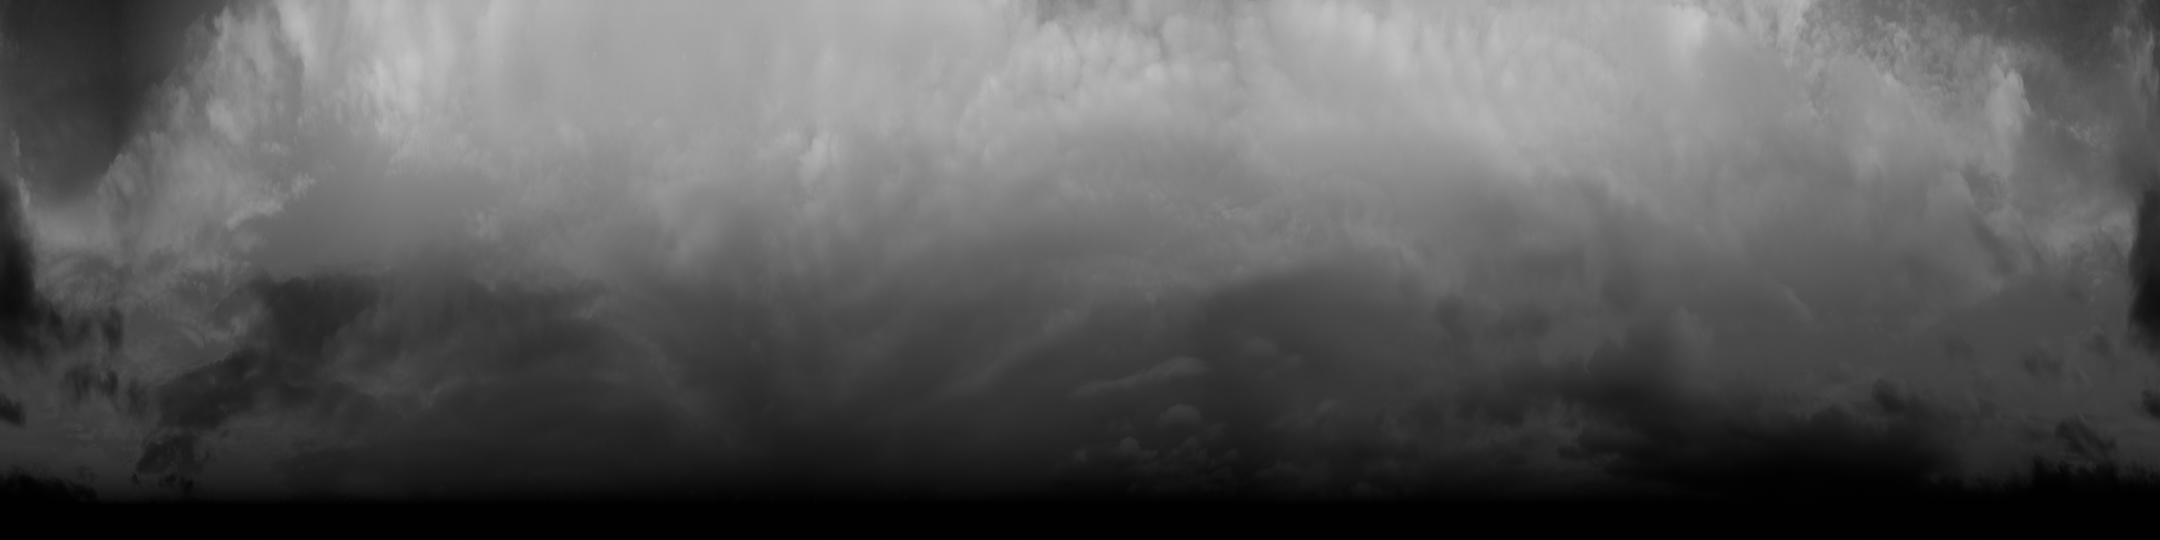
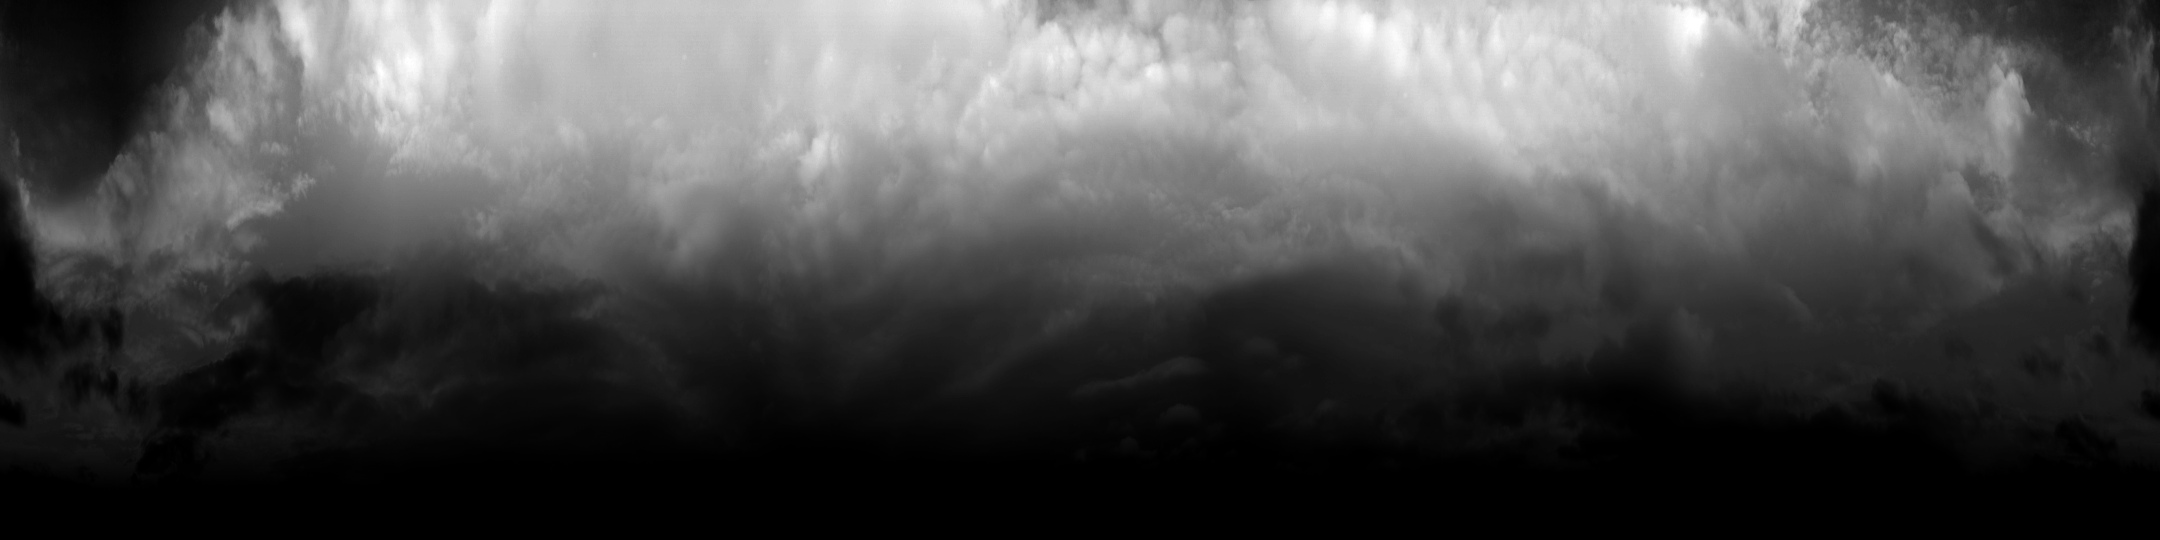
0.062

diff --git a/window.js b/window.js
@@ -113,15 +113,15 @@ choosingChibi = false;
 // landscape
 const newtree = new Image();
 newtree.src = 'newtree.png';
-let ph = newtree.height;
 const acacia = new Image();
 acacia.src = 'acacia.png';
 const clouds = new Image();
-clouds.onload = function() {
+clouds.src = 'clouds.png';
+const clouds2 = new Image();
+clouds2.onload = function() {
   console.log('Images buffered succesfully');
 };
-clouds.src = 'clouds.png';
-
+clouds2.src = 'clouds2.png';
 
 // for my guys
 const smile = new Image();
@@ -185,9 +185,6 @@ outputArray = [];
 
 
 // UI and messaging
-basicInfo = new TextElement(fontSize+'px', trueWhite, 10, canvasHeight - 10);
-newestMessage = new TextElement(fontSize+'px', trueWhite, 10, canvasHeight - 30);
-topLabel = new TextElement(fontSize+'px', trueWhite, canvasWidth - 115, 20);
 let messagesToSave = canvasHeight/20;
 
 /**
@@ -269,17 +266,25 @@ let myGameArea = {
 function updateGameArea() {
   myGameArea.clear();
   ctx = myGameArea.context;
-  c = document.getElementById("myCanvas");
+  //c = document.getElementById('myCanvas');
   myGameArea.frameNo += 1;
   touchOnorOffThisFrame = false;
   if (myGameArea.frameNo == 1 || everyinterval(3)) {
     // fire a comet
-    if (fps >= 30 && Math.random() < 0.005) {
+    if (fps >= 30 && Math.random() < 0.005 && (daytimeCounter <= 250 || daytimeCounter >= 750)) {
       ranX = Math.floor(Math.random()*(canvasWidth));
-      ranY = Math.floor(Math.random()*(trueBottom/2));
+      if (Math.random() < 0.5) {
+        ranY = 0;
+      } else {
+        ranY = canvasWidth;
+      }
       comets.push(new Inert(2, 2, trueWhite, ranX, ranY));
-      comets[comets.length-1].speedX = (Math.random()*2)-1;
-      comets[comets.length-1].speedY = -(Math.random()+0.1);
+      if (ranY == 0) {
+        comets[comets.length-1].speedX = Math.random();
+      } else {
+        comets[comets.length-1].speedX = -Math.random();
+      }
+      comets[comets.length-1].speedY = - Math.random() + 0.1;
     }
     // change the colour by time of day
     for (let tick = 0; tick < nightcolour.length; tick++) {
@@ -389,20 +394,24 @@ function updateGameArea() {
   // background
   // draw the clouds - disappear at nighttime
   ctx.globalAlpha = 0.3;
-    if (daytimeCounter <= 250) {
-      ctx.globalAlpha = 0.3 - (0.2*((250 - daytimeCounter)/250));
-    } else if (daytimeCounter > 750) {
-      ctx.globalAlpha = 0.3 - (0.2*((daytimeCounter-750)/250));
-    }
+  if (daytimeCounter <= 250) {
+    ctx.globalAlpha = 0.3 - (0.2*((250 - daytimeCounter)/250));
+  } else if (daytimeCounter > 750) {
+    ctx.globalAlpha = 0.3 - (0.2*((daytimeCounter-750)/250));
+  }
   if (ctx.globalAlpha < 0) {
     ctx.globalAlpha = 0;
   }
-
   let offsetX = (canvasHeight/540*2160)/10000*(daytimeCounter);
-  ctx.drawImage(clouds, 0 - offsetX, 0, (canvasHeight/540*2160), canvasHeight);
+  ctx.drawImage(clouds, 0 - offsetX/10, 0, (canvasHeight/540*2160), canvasHeight);
   if (offsetX > 2160) {
-    ctx.drawImage(clouds, (canvasHeight/540*2160) - offsetX, 0, (canvasHeight/540*2160), canvasHeight);
+    ctx.drawImage(clouds, (canvasHeight/540*2160) - (offsetX/10), 0, (canvasHeight/540*2160), canvasHeight);
   }
+  ctx.drawImage(clouds2, - offsetX, 0, (canvasHeight/540*2160), canvasHeight);
+  if (offsetX > 2160) {
+    ctx.drawImage(clouds2, (canvasHeight/540*2160) - offsetX, 0, (canvasHeight/540*2160), canvasHeight);
+  }
+
   ctx.globalAlpha = 1;
 
   // draw the tree
@@ -480,16 +489,16 @@ function updateGameArea() {
   // draw the message history
   if (pointerPos.y > canvasHeight - muckLevel - 5) {
     let fade = ctx.createLinearGradient(0, 0, 0, trueBottom);
-    let rMessage = Math.round((255+(hexToRgb(outputArray[2]).r))/2);
-    let gMessage = Math.round((255+(hexToRgb(outputArray[2]).g))/2);
-    let bMessage = Math.round((255+(hexToRgb(outputArray[2]).b))/2);
+    let rMessage = Math.round(hexToRgb(outputArray[2]).r);
+    let gMessage = Math.round(hexToRgb(outputArray[2]).g);
+    let bMessage = Math.round(hexToRgb(outputArray[2]).b);
     fade.addColorStop(0, 'rgba('+rMessage+', '+gMessage+', '+bMessage+', 0.05)');
     fade.addColorStop(1, 'rgba('+rMessage+', '+gMessage+', '+bMessage+', 0.3)');
     // Fill with gradient
     ctx.fillStyle = fade;
     ctx.font = fontSize+'px' + ' ' + globalFont;
     for (let i = messageBuffer.length-2; i >= 0; i--) {
-      ctx.fillText(messageBuffer[i].timeStamp+' '+messageBuffer[i].text, 10, 35+trueBottom-(20*(messageBuffer.length-i)));
+      ctx.fillText(messageBuffer[i].timeStamp +' '+ messageBuffer[i].text, 10, 30 + trueBottom - (20*(messageBuffer.length-i)));
     }
   }
   // update the text
@@ -731,11 +740,13 @@ function updateGameArea() {
     ctx.fillRect(0, 0, canvasWidth, canvasHeight);
     ctx.globalAlpha = 1;
   }
-
+  basicInfo = new TextElement(fontSize+'px', outputArray[2], 10, canvasHeight - 5);
   basicInfo.text = tickerToTime(daytimeCounter) +' Day '+day+' Chibis '+(femaleCount+maleCount+nonbinaryCount) + ' /'+femaleCount+'F '+maleCount+'M '+nonbinaryCount+'N '; // +(chibis.length + trees.length + fruits.length + fireflies.length + seeds.length + glyphs.length);
   basicInfo.update();
-  topLabel.text = 'v0.061 FPS '+fps;
+  topLabel = new TextElement(fontSize+'px', outputArray[2], canvasWidth - 115, 20);
+  topLabel.text = 'v0.062 FPS '+fps;
   topLabel.update();
+  newestMessage = new TextElement(fontSize+'px', outputArray[2], 10, canvasHeight - 25);
   if (!paused) {
     newestMessage.text = currentMessage.timeStamp +' ' + currentMessage.text;
   } else {
@@ -775,7 +786,12 @@ function updateGameArea() {
   for (let i = 0; i < buttons.length; i++) {
     buttons[i].update();
   }
-
+  for (let i = 0; i < buttons.length; i++) {
+    // tool tip - draw on top of buttons and labels
+    if (buttons[i].visible && pointerPos.x < buttons[i].x + (buttons[i].width/2) && pointerPos.x > buttons[i].x - (buttons[i].width/2) && pointerPos.y < buttons[i].y + buttons[i].height && pointerPos.y > buttons[i].y) {
+      buttons[i].drawToolTip();
+    }
+  }
 }
 
 /**
@@ -1350,6 +1366,10 @@ function Seed(colour, owner) {
           if (chibis[i].speedY < 0) {
             chibis[i].health -= 0.1;
           }
+          // get more tired between midnight and 3am
+          if (chibis[i].awake && daytimeCounter <= 250) {
+            chibis[i].energy -= 0.03125;
+          }
           // if asleep, gain energy and a little health
           if (!chibis[i].awake) {
             chibis[i].energy += 0.125;
@@ -1568,11 +1588,11 @@ function Seed(colour, owner) {
             glowalpha = (1 - (1/(canvasHeight)*this.y)) * ((daytimeCounter-750)/250);
           }
         }
-          if (glowalpha > 0 && glowalpha < 1) {
-            ctx.globalAlpha = glowalpha/2;
-          } else {
-            ctx.globalAlpha = 0;
-          }
+        if (glowalpha > 0 && glowalpha < 1) {
+          ctx.globalAlpha = glowalpha/2;
+        } else {
+          ctx.globalAlpha = 0;
+        }
 
         // draw the thing
         ctx.fillStyle = this.colour;

diff --git a/cattery.js b/cattery.js
@@ -1538,17 +1538,30 @@ function Chibi(x, y, bodySize, maxSize, gender) {
     ctx.lineWidth = 2*this.cellShadeThickness;
     ctx.beginPath();
     if (this.sitting && this.awake) {
-      // make it wag
+      // make the butt wag
       ctx.beginPath();
       ctx.arc(-tmp+1.875, -this.size, this.thickness*this.size*1.8, 0, 2 * Math.PI);
       ctx.stroke();
       ctx.fill();
+      // chest piece
+      ctx.beginPath();
+      ctx.arc(-backendShiftX/4, -this.size - this.backendShiftY/4, this.thickness*this.size*1.8, 0, 2 * Math.PI);
+      ctx.stroke();
+      ctx.fill();
+
+
       if (this.pattern !== 0 && this.pattern !== 4 && this.pattern !== 5) {
         ctx.fillStyle = pat;
         ctx.globalAlpha = this.patternAlpha;
+        // butt
         ctx.beginPath();
         ctx.arc(-tmp+1.875, -this.size, this.thickness*this.size*1.8, 0, 2 * Math.PI);
         ctx.fill();
+        // chest
+        ctx.beginPath();
+        ctx.arc(-backendShiftX/4, -this.size - this.backendShiftY/4, this.thickness*this.size*1.8, 0, 2 * Math.PI);
+        ctx.fill();
+
         if (this.pattern == 3) {
           let fadeGrad = ctx.createLinearGradient(0, -this.thickness*this.size*1.8/2, 0, this.thickness*this.size*1.8);
           fadeGrad.addColorStop(0.4, 'rgba(0, 0, 0, 0)');
@@ -1564,22 +1577,32 @@ function Chibi(x, y, bodySize, maxSize, gender) {
           bGradient.addColorStop(0, this.thirdColour);
           bGradient.addColorStop(1, 'rgba(0, 0, 0, 0)');
           ctx.fillStyle = bGradient;
+          ctx.arc(-backendShiftX/4, -this.size - this.backendShiftY/4, this.thickness*this.size*1.8, 0, 2 * Math.PI);
           ctx.arc(-tmp+1.875, -this.size, this.thickness*this.size*1.8, 0, 2 * Math.PI);
           ctx.fill();
         }
       }
     } else if (this.awake) {
+      // butt
       ctx.beginPath();
       ctx.arc(-(this.size/32) - backendShiftX, - backendShiftY, this.thickness*this.size*1.8, 0, 2 * Math.PI);
       ctx.stroke();
       ctx.fill();
+      // chest piece
+      ctx.beginPath();
+      ctx.arc(-(this.size/32) - backendShiftX/4, - backendShiftY/4, this.thickness*this.size*1.8, 0, 2 * Math.PI);
+      ctx.stroke();
+      ctx.fill();
+
       if (this.pattern !== 0 && this.pattern !== 4 && this.pattern !== 5) {
         ctx.fillStyle = pat;
         ctx.globalAlpha = this.patternAlpha;
         ctx.beginPath();
+        ctx.arc(-(this.size/32) - backendShiftX/4, - backendShiftY/4, this.thickness*this.size*1.8, 0, 2 * Math.PI);
         ctx.arc(-(this.size/32) - backendShiftX, - backendShiftY, this.thickness*this.size*1.8, 0, 2 * Math.PI);
         ctx.fill();
         ctx.globalAlpha = 1;
+
         if (this.pattern == 3) {
           let fadeGrad = ctx.createLinearGradient(0, -this.thickness*this.size*1.8/2, 0, this.thickness*this.size*1.8);
           fadeGrad.addColorStop(0.4, 'rgba(0, 0, 0, 0)');
@@ -1604,6 +1627,7 @@ function Chibi(x, y, bodySize, maxSize, gender) {
 
   this.drawNeck = function(pat, backendShiftX, backendShiftY, bodyGradient) {
     if (this.awake && !this.sitting) {
+      ctx.globalAlpha = 1;
       // NECK
       // REAL DRAWING
       ctx.fillStyle = bodyGradient;
@@ -2262,15 +2286,6 @@ function Chibi(x, y, bodySize, maxSize, gender) {
       } else if (this.awake && this.energy > 0) {
         // CELL SHADING
         ctx.fillStyle = this.cellShadeLine;
-        // left arm
-        ctx.save();
-        ctx.translate(this.x-this.size+(this.size/3), this.y + (this.size/1.5) - (footSize/2));
-        ctx.restore(); // closed
-        // right arm
-        ctx.save();
-        ctx.translate(this.x+this.size-(this.size/3), this.y + (this.size/1.5) - (footSize/2));
-        ctx.restore(); // closed
-        ctx.lineWidth -= this.cellShadeThickness;
         // REAL DRAWING
         // left arm
         ctx.fillStyle = leftHandGradient;
@@ -2622,7 +2637,7 @@ function Chibi(x, y, bodySize, maxSize, gender) {
       }
     }
     for (let f = 0; f < fireflies.length; f++) {
-      if (this.focus == fireflies[f] && !this.hitBottom && !fireflies[f].touchedThisFrame && this.awake && this.energy > 0 && this.snuggling == -1 && this.nomnomnom == -1 && detectCollision(this, fireflies[f])) {
+      if (this.inCatBox == null && this.focus == fireflies[f] && !this.hitBottom && !fireflies[f].touchedThisFrame && this.awake && this.energy > 0 && this.snuggling == -1 && this.nomnomnom == -1 && detectCollision(this, fireflies[f])) {
         fireflies[f].touchedThisFrame = true;
         this.resetRotation(true);
         fireflies[f].speedX += (this.speedX*this.size)/1500;

diff --git a/ui.js b/ui.js
@@ -61,6 +61,12 @@ function Button(x, y, text, toolTip) {
     this.width = (this.text.length*fontWidth)+20;
     this.size = ((this.text.length*fontWidth)+20);
   };
+  this.drawToolTip = function() {
+    ctx.fillStyle = mixTwoColours(outputArray[3], trueBlack, 0.5);
+    ctx.fillRect(pointerPos.x, pointerPos.y + 20, this.toolTipWidth, 20);
+    ctx.fillStyle = trueWhite;
+    ctx.fillText(this.toolTip, pointerPos.x + 12.5, pointerPos.y + 35);
+  };
   this.update = function() {
     if (this == buttons[5] || this == buttons[3]) {
       if (selection == null || selection.inCatBox !== null) {
@@ -70,29 +76,30 @@ function Button(x, y, text, toolTip) {
       }
     }
     if (this.visible) {
+      // box
       ctx.save();
       ctx.translate(this.x -(this.width/2), this.y);
+      ctx.globalAlpha = 0.25;
       if (this.highlighted) {
-        ctx.fillStyle = outputArray[2];
+        ctx.globalAlpha = 1;
+        ctx.fillStyle = mixTwoColours(trueWhite, outputArray[2]);
       } else if (!this.available) {
         ctx.fillStyle = outputArray[3];
       } else {
-        ctx.fillStyle = mixTwoColours(trueWhite, outputArray[2]);
+        ctx.fillStyle = outputArray[2];
       }
       ctx.fillRect(0, 0, this.width, this.height);
+      // label
+      ctx.globalAlpha = 1;
       if (this.highlighted) {
-        ctx.fillStyle = mixTwoColours(trueWhite, outputArray[2]);
-      } else {
+        ctx.fillStyle = outputArray[3];
+      } else if (!this.available) {
         ctx.fillStyle = outputArray[2];
+      } else {
+        ctx.fillStyle = trueWhite;
       }
       ctx.fillText(this.text, 10, 18);
       ctx.restore();
-    }
-    if (this.highlighted && this.toolTip.length > 0) {
-      ctx.fillStyle = mixTwoColours(outputArray[3], trueBlack, 0.5);
-      ctx.fillRect(pointerPos.x, pointerPos.y + 20, this.toolTipWidth, 20);
-      ctx.fillStyle = trueWhite;
-      ctx.fillText(this.toolTip, pointerPos.x + 12.5, pointerPos.y + 35);
     }
   };
 }
@@ -503,7 +510,9 @@ function unclick() {
 */
 function hover() {
   let hovered = false;
+  // highlighting buttons
   for (let i = 0; i < buttons.length; i++) {
+    // tooltip creation on hover is handled in window.js
     if (buttons[i].available && buttons[i].visible && pointerPos.x < buttons[i].x + (buttons[i].width/2) && pointerPos.x > buttons[i].x - (buttons[i].width/2) && pointerPos.y < buttons[i].y + buttons[i].height && pointerPos.y > buttons[i].y) {
       buttons[i].highlighted = true;
       hovered = true;
@@ -511,6 +520,7 @@ function hover() {
       buttons[i].highlighted = false;
     }
   }
+  // highlighting catboxes
   for (let i = 0; !hovered && i < boxes.length; i++) {
     if (pointerPos.x < boxes[i].x + boxes[i].size && pointerPos.x > boxes[i].x && pointerPos.y < boxes[i].y + boxes[i].size && pointerPos.y > boxes[i].y) {
       boxes[i].highlighted = true;
@@ -524,7 +534,6 @@ function hover() {
   } else if (colourBlock.dragging && pointerPos.x < colourBlock.x && pointerPos.x >= colourBlock.x + 100 && pointerPos.y < colourBlock.y && pointerPos.y >= colourBlock.y + 100) {
     colourBlock.dragging = false;
   }
-
 }
 
 /**

diff --git a/breeds.js b/breeds.js
@@ -167,6 +167,7 @@ function breedTabby(who) {
   who.coatMod[1] = 0.74;
   who.size = 13 + (Math.random()*4);
   who.maxSize = 18;
+  who.legginess = 0.5 + Math.random()*0.3;
   let coatSwitch = Math.random();
   if (coatSwitch < 1/3) {
     // orange

diff --git a/readme.md b/readme.md
@@ -2,6 +2,12 @@
 
 changelog
 
+23/01/2019 = 0.062
+~ added another body piece; the chest/torso section
+~ changed ui colours
+~ chibis now get slightly more tired between midnight and 3am
+~ updated cloud textures and movement
+
 21/01/2019 = 0.061
 ~ added pause functionality to game
 ~ added tooltips to all buttons
